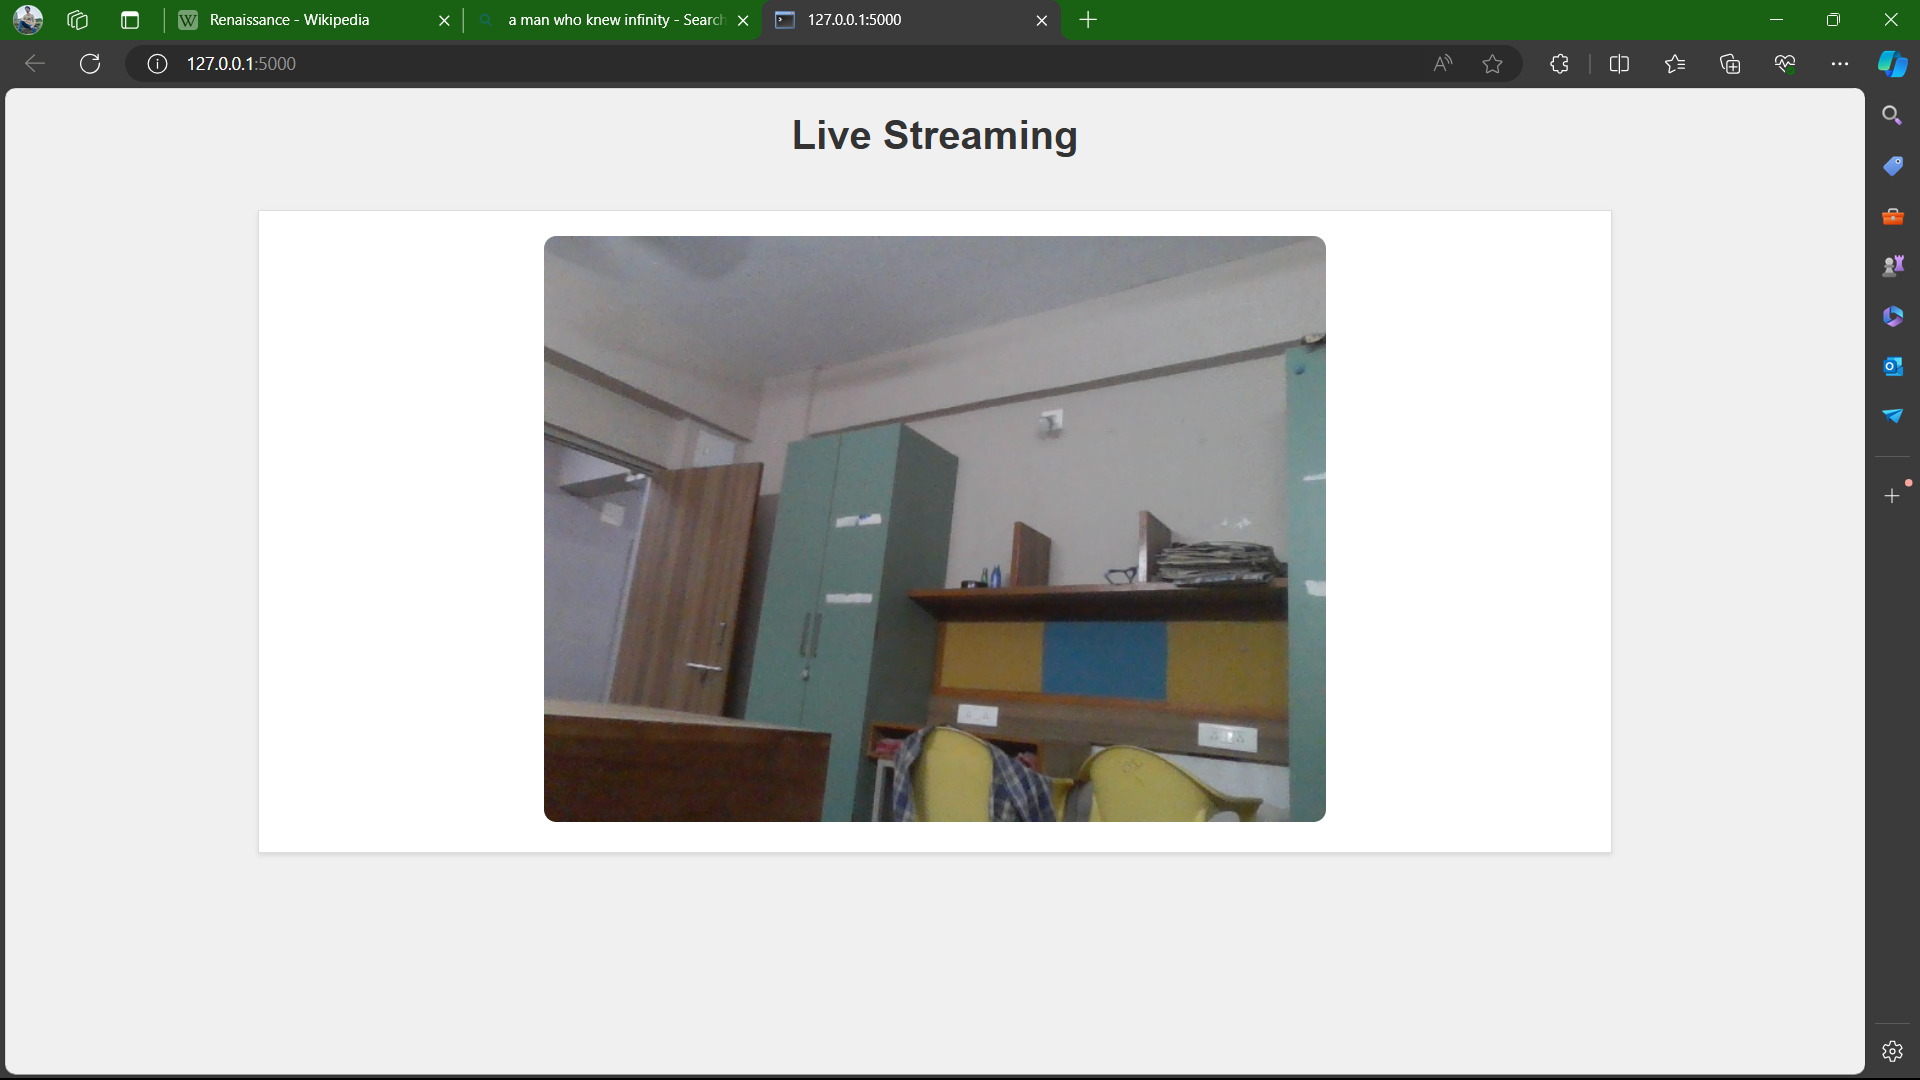
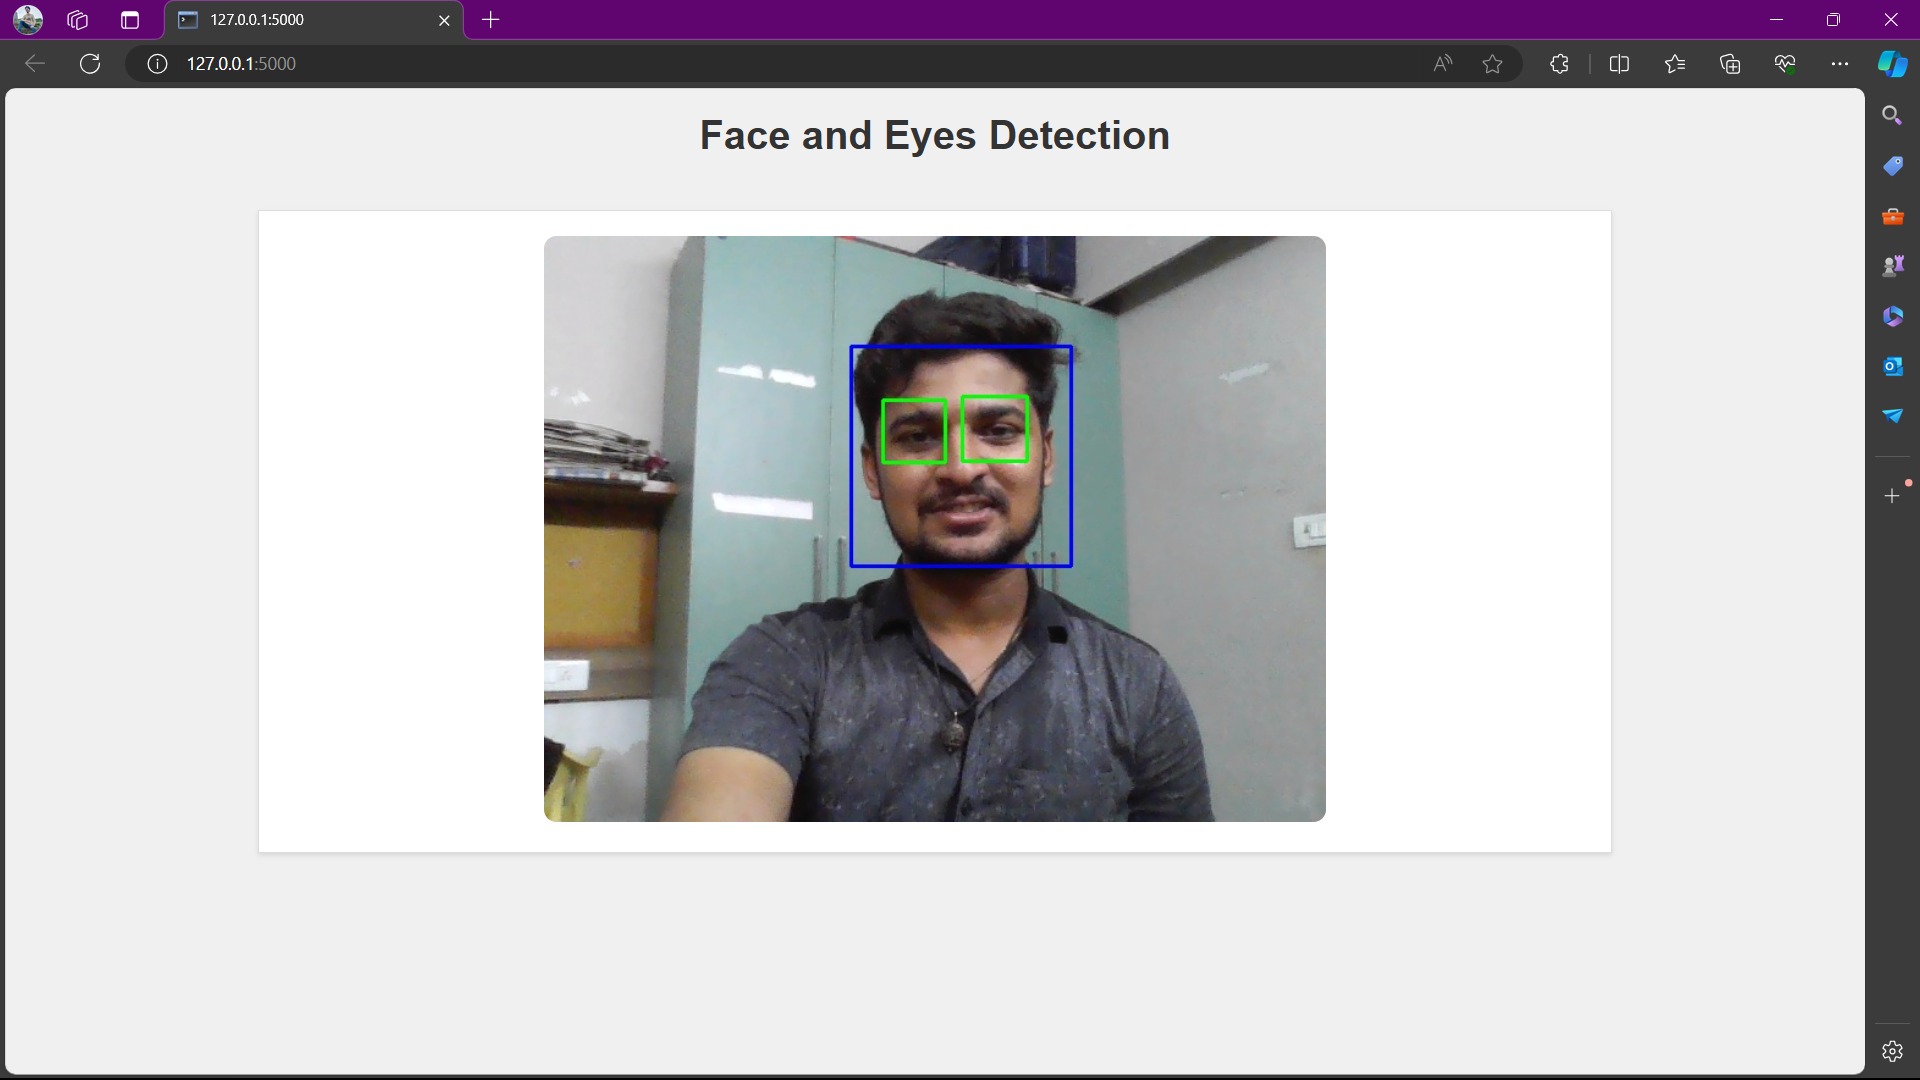
updated README.md

Changed region(s): [[0.2812, 0.2139, 0.6875, 0.7639], [0.0, 0.0, 1.0, 0.0611], [0.375, 0.0917, 0.625, 0.1528]]

diff --git a/templates/index.html b/templates/index.html
@@ -32,7 +32,7 @@
         </style>
     </head>
     <body>
-        <h1>Live Streaming</h1>
+        <h1>Face and Eyes Detection</h1>
         <div>
             <img src = "{{url_for('video')}}" width = "60%">
         </div>

diff --git a/README.md b/README.md
@@ -1,25 +1,25 @@
-# Flask Video Streaming with OpenCV
+# Face and Eyes detection with Flask and OpenCV
 
-This project implements a simple live video streaming application using Flask and OpenCV.
+This project implements a simple face and eyes detection application using Flask and OpenCV.
 
 ## Overview
 
-The application sets up a Flask server to handle video stream requests and uses OpenCV to capture and process video frames. The live video stream is displayed on a web page.
+The application sets up a Flask server to handle video stream requests and uses OpenCV to capture and process video frames. The live video stream is displayed on a web page and detect face and eyes.
 
 ## Preview
 <img src="static/images/preview.png" alt="app preview">
 
 ## Project Structure
 
-- `app.py`: The main Flask application file that handles video streaming.
+- `app.py`: The main Flask application file that handles video streaming and detect face and eyes
 - `templates/index.html`: The HTML template that displays the live video stream.
 
 ## Getting Started
 
 1. Clone the repository:
     ```bash
-    git clone https://github.com/RiteshYennuwar/Video_Streaming
-    cd Video_Streaming
+    git clone https://github.com/RiteshYennuwar/Face_and_Eye_Detection.git
+    cd Face_and_Eye_Detection
     ```
 
 2. Install the required packages:
@@ -34,4 +34,4 @@ The application sets up a Flask server to handle video stream requests and uses 
     python app.py
     ```
 
-2. Open your web browser and go to http://127.0.0.1:5000 to see the live video stream.
+2. Open your web browser and go to http://127.0.0.1:5000 to see the face and eyes detection.
